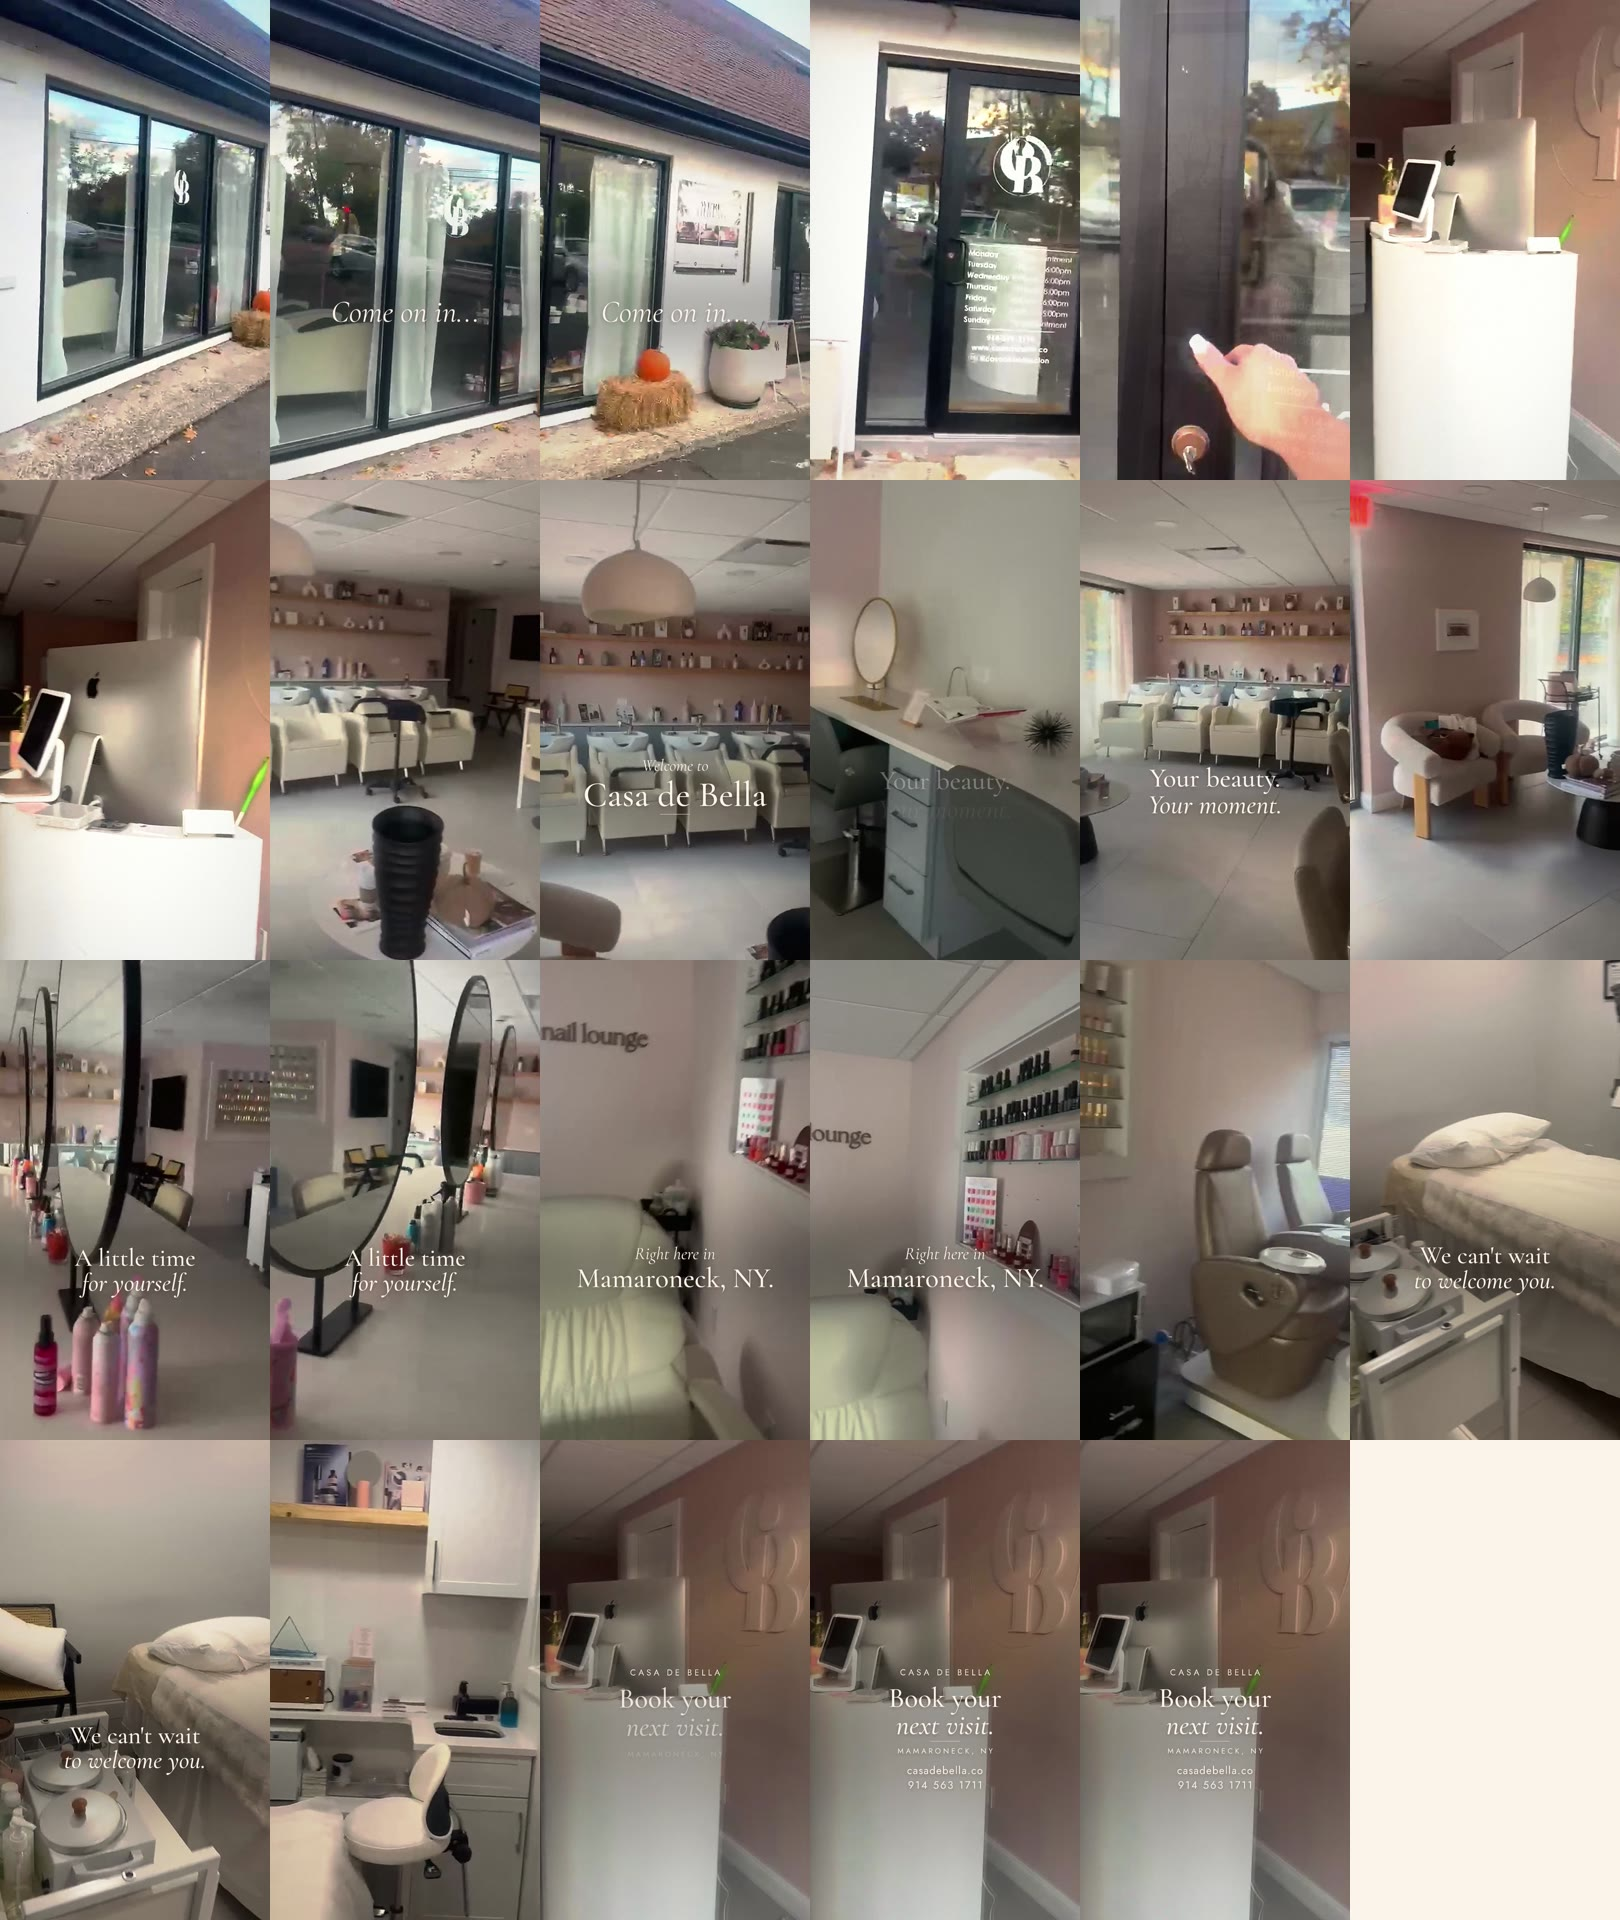
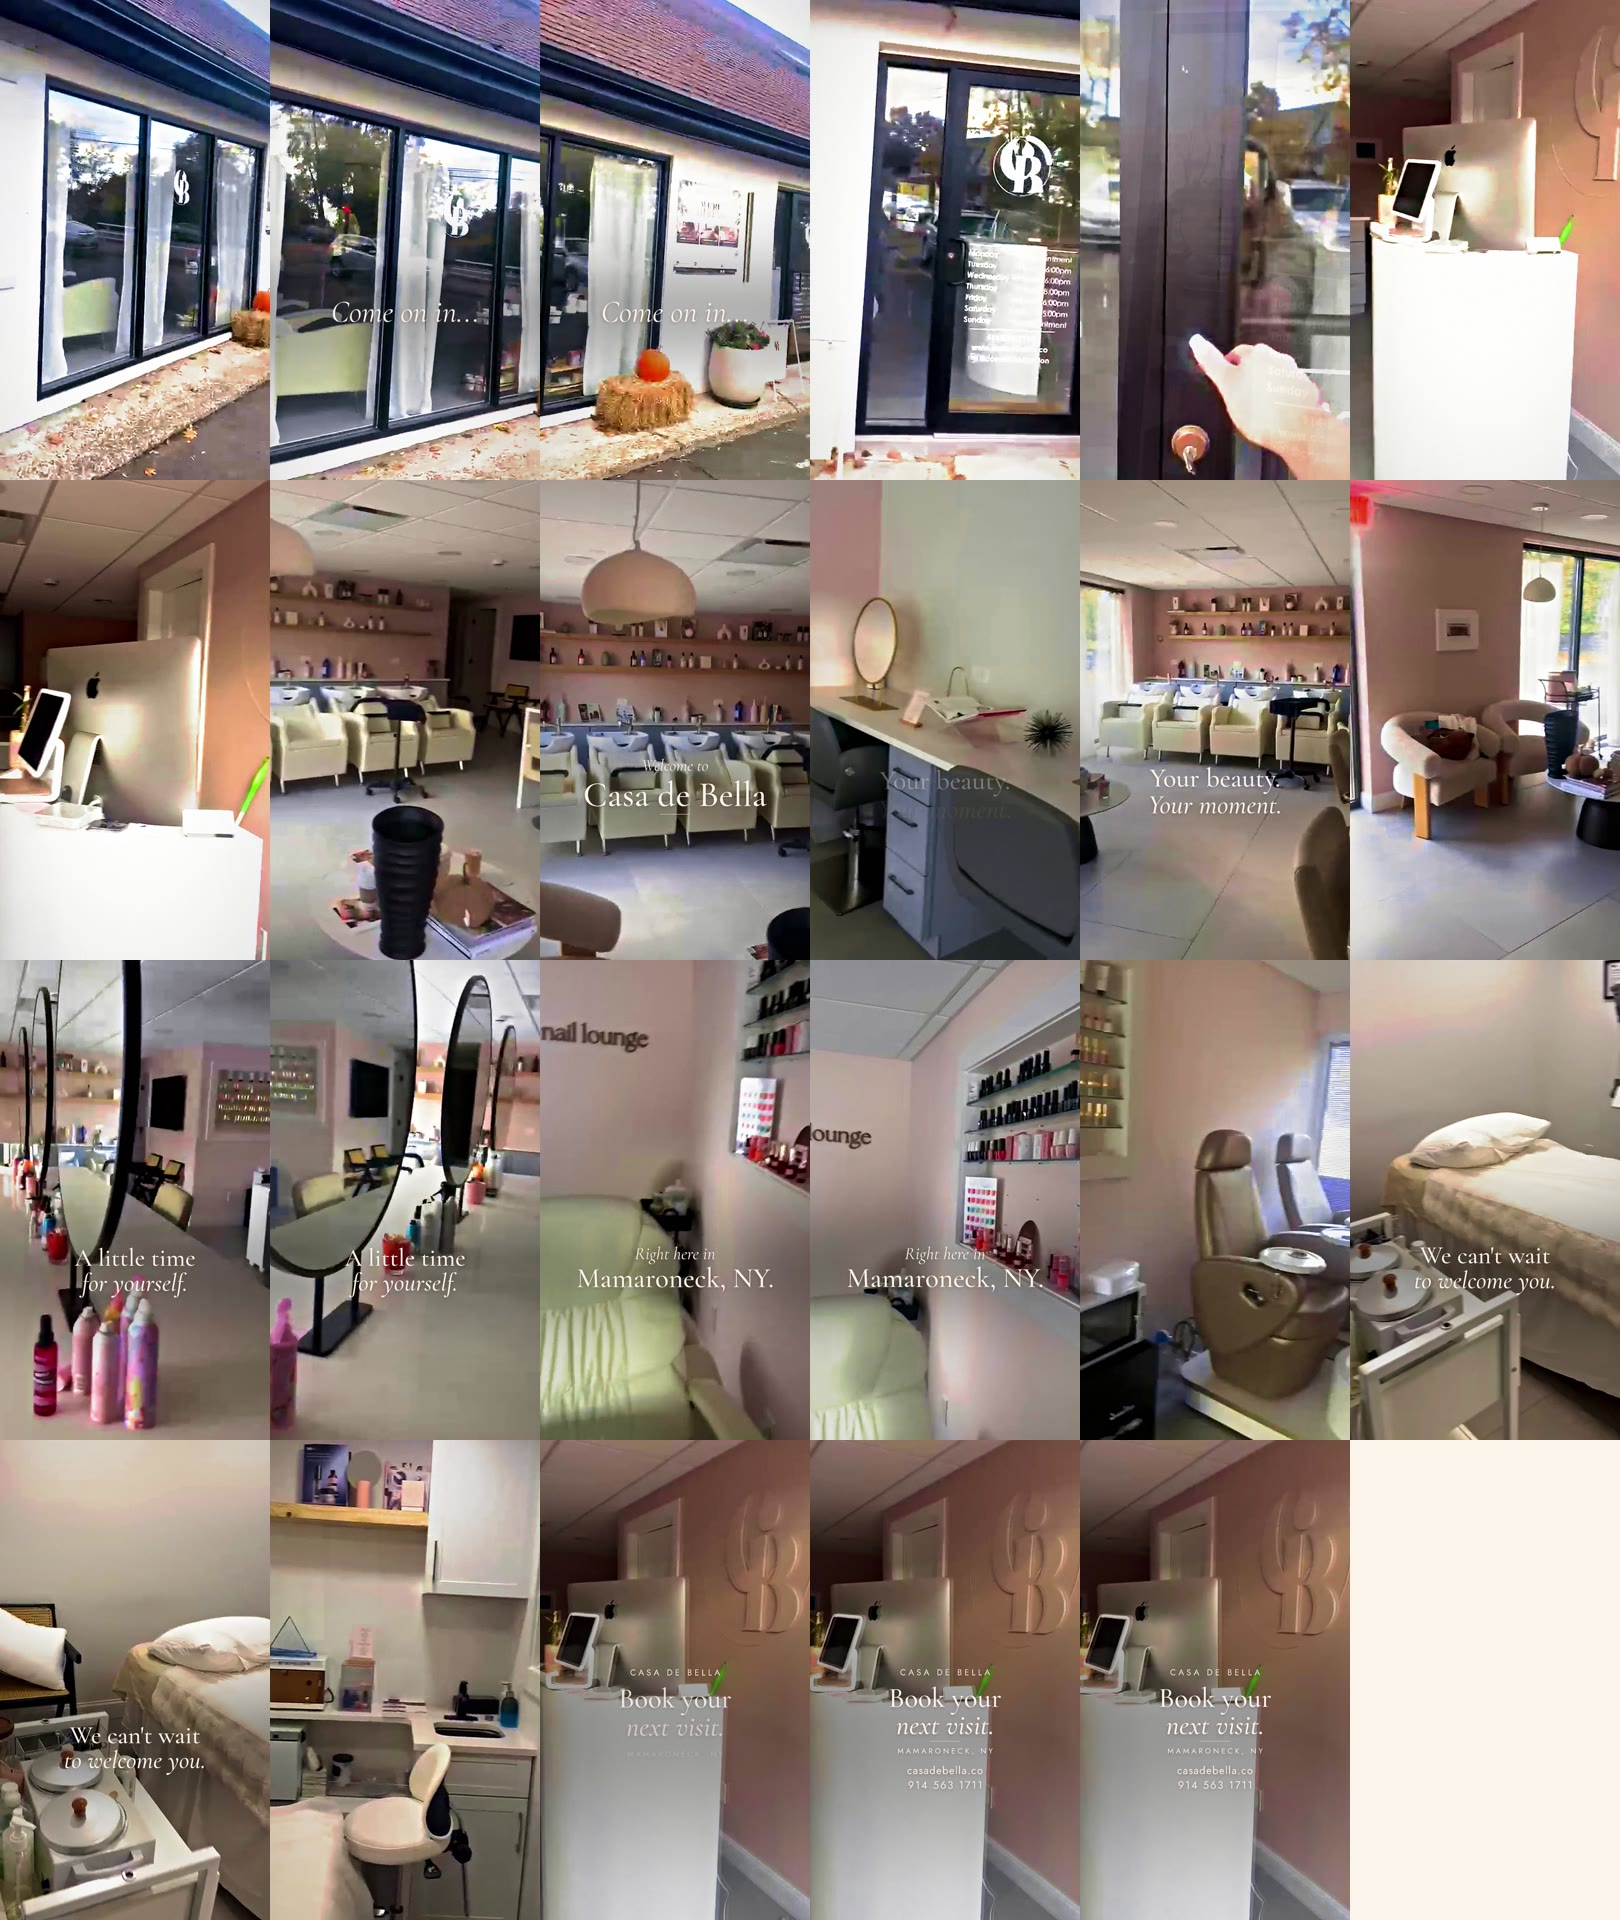
Richer colour grade (vibrance, contrast, clean whites, de-green cream tones)
Claude-Session: https://claude.ai/code/session_0132pA6N5znbUe1rogarQ3Lz

diff --git a/casa-de-bella-reel/reel_lib.py b/casa-de-bella-reel/reel_lib.py
@@ -93,11 +93,25 @@ def _smooth_curve(x, knee=0.72, k=1.7):
     return y
 
 
+def _global_grade():
+    try:
+        return load_edit().get("grade_global", {})
+    except Exception:
+        return {}
+
+
 def estimate_grade(frames, shot_grade):
     """frames: list of uint8 HxWx3 sample frames. Returns dict of per-channel LUT + params."""
     g = dict(target=0.52, warm=0.02, sat=1.05, wb_strength=0.6, lift=0.010, contrast=0.16, max_gain=2.0)
     g.update(shot_grade or {})
-    g["warm"] += 0.012  # global nudge toward cream/warm
+    G = _global_grade()
+    g["warm"] += G.get("warm_add", 0.012)       # global nudge toward cream/warm
+    g["target"] += G.get("target_add", 0.0)      # brighter overall
+    g["sat"] *= G.get("sat_mult", 1.0)           # richer colour
+    g["contrast"] = G.get("contrast", g["contrast"])
+    g["lift"] = G.get("lift", g["lift"])         # black point (0 = true blacks)
+    g["wb_strength"] = G.get("wb_strength", g["wb_strength"])
+    g["vibrance"] = G.get("vibrance", 0.0)
     sub = np.concatenate([f[::8, ::8].reshape(-1, 3) for f in frames]).astype(np.float32) / 255.0
     luma = sub @ np.array([0.299, 0.587, 0.114], dtype=np.float32)
     # white balance from near-neutral mid-tones
@@ -130,11 +144,11 @@ def estimate_grade(frames, shot_grade):
         v = v + g["contrast"] * (s - v)
         v = g["lift"] + (1 - g["lift"]) * v
         luts[c] = np.clip(v * 255 + 0.5, 0, 255).astype(np.uint8)
-    return dict(luts=luts, sat=g["sat"], gains=gains, gain=gain, med=med)
+    return dict(luts=luts, sat=g["sat"], vib=g["vibrance"], gains=gains, gain=gain, med=med)
 
 
 SHADOW_TINT = np.array([0.010, 0.003, -0.006], np.float32)  # warm brown in the shadows
-HIGHLIGHT_MUL = np.array([1.0, 0.996, 0.982], np.float32)  # cream in the highlights
+HIGHLIGHT_MUL = np.array([1.0, 0.998, 0.99], np.float32)  # cream in the highlights
 
 
 def apply_grade(frame_u8, grade):
@@ -143,7 +157,17 @@ def apply_grade(frame_u8, grade):
         out[..., c] = grade["luts"][c][frame_u8[..., c]]
     f = out.astype(np.float32) / 255.0
     y = (f @ np.array([0.299, 0.587, 0.114], dtype=np.float32))[..., None]
-    f = y + (f - y) * grade["sat"]
+    # vibrance: lift muted colours (pinks, creams, beiges) more than already-vivid ones
+    mx, mn = f.max(2, keepdims=True), f.min(2, keepdims=True)
+    chroma = (mx - mn) / np.maximum(mx, 1e-3)
+    f = y + (f - y) * (grade["sat"] * (1 + grade.get("vib", 0.0) * (1 - np.clip(chroma * 2.5, 0, 1))))
+    # de-green cream/ivory tones lit by warm light (G slightly above R reads lime on screen); leaves vivid greens alone
+    mx2, mn2 = f.max(2), f.min(2)
+    low_chroma = np.clip(1 - ((mx2 - mn2) / np.maximum(mx2, 1e-3)) / 0.60, 0, 1)
+    f[..., 1] -= 1.0 * np.maximum(f[..., 1] - f[..., 0], 0) * low_chroma
+    # keep bright whites clean: pull colour out of the brightest tones so clipped highlights never turn yellow
+    w = np.clip((y - 0.74) / 0.22, 0, 1)
+    f = y + (f - y) * (1 - 0.7 * w * w * (3 - 2 * w))
     f = f + SHADOW_TINT * (1 - y) * (1 - y)
     f = f * (1 + (HIGHLIGHT_MUL - 1) * y * y)
     return np.clip(f * 255 + 0.5, 0, 255).astype(np.uint8)

diff --git a/casa-de-bella-reel/2_render_shots.py b/casa-de-bella-reel/2_render_shots.py
@@ -88,6 +88,9 @@ def render(shot):
         u = min(max(t / dur, 0), 1)
         img = zoomed(img, z0 + (z1 - z0) * (u * u * (3 - 2 * u)), shot.get("zoom_anchor", (0.5, 0.5)))
         img = img.filter(ImageFilter.UnsharpMask(radius=1.4, percent=75, threshold=2))
+        clar = edit.get("grade_global", {}).get("clarity", 0)
+        if clar:  # local contrast ('clarity'): big-radius unsharp gives the picture more pop
+            img = img.filter(ImageFilter.UnsharpMask(radius=28, percent=int(clar * 100), threshold=0))
         mm[k] = np.asarray(img)
     mm.flush()
     print(f"{sid:3s} {total} frames  gain x{grade['gain']:.2f}  wb {np.round(grade['gains'], 3)}  "

diff --git a/casa-de-bella-reel/README.md b/casa-de-bella-reel/README.md
@@ -24,6 +24,11 @@ A livelier alternative track (`audio/music_lively.mp3`, upbeat pop at 90 BPM) gi
 `casa-de-bella-reel_lively_music_voiceover.mp4`: `python3 5_add_audio.py music_lively.mp3 lively 0.5 1.2 -17`.
 To change the script, regenerate `audio/voiceover.mp3` with the new wording and re-run `python3 5_add_audio.py`.
 
+## Colour
+The look is set by `grade_global` in `edit.json` (saturation, vibrance, contrast, brightness, warmth, clarity) plus a per-shot
+`grade` on each shot. Version 3 added a richer grade after feedback that the colour looked dull. After changing colour, run
+`python3 2_render_shots.py && python3 3_assemble.py`, then the `5_add_audio.py` commands to rebuild the audio versions.
+
 ## Asking for changes
 Almost everything lives in **`edit.json`**:
 - `shots` - order, length in beats (1 beat = 20 frames = 0.667 s), `src_in` (source start in seconds),
